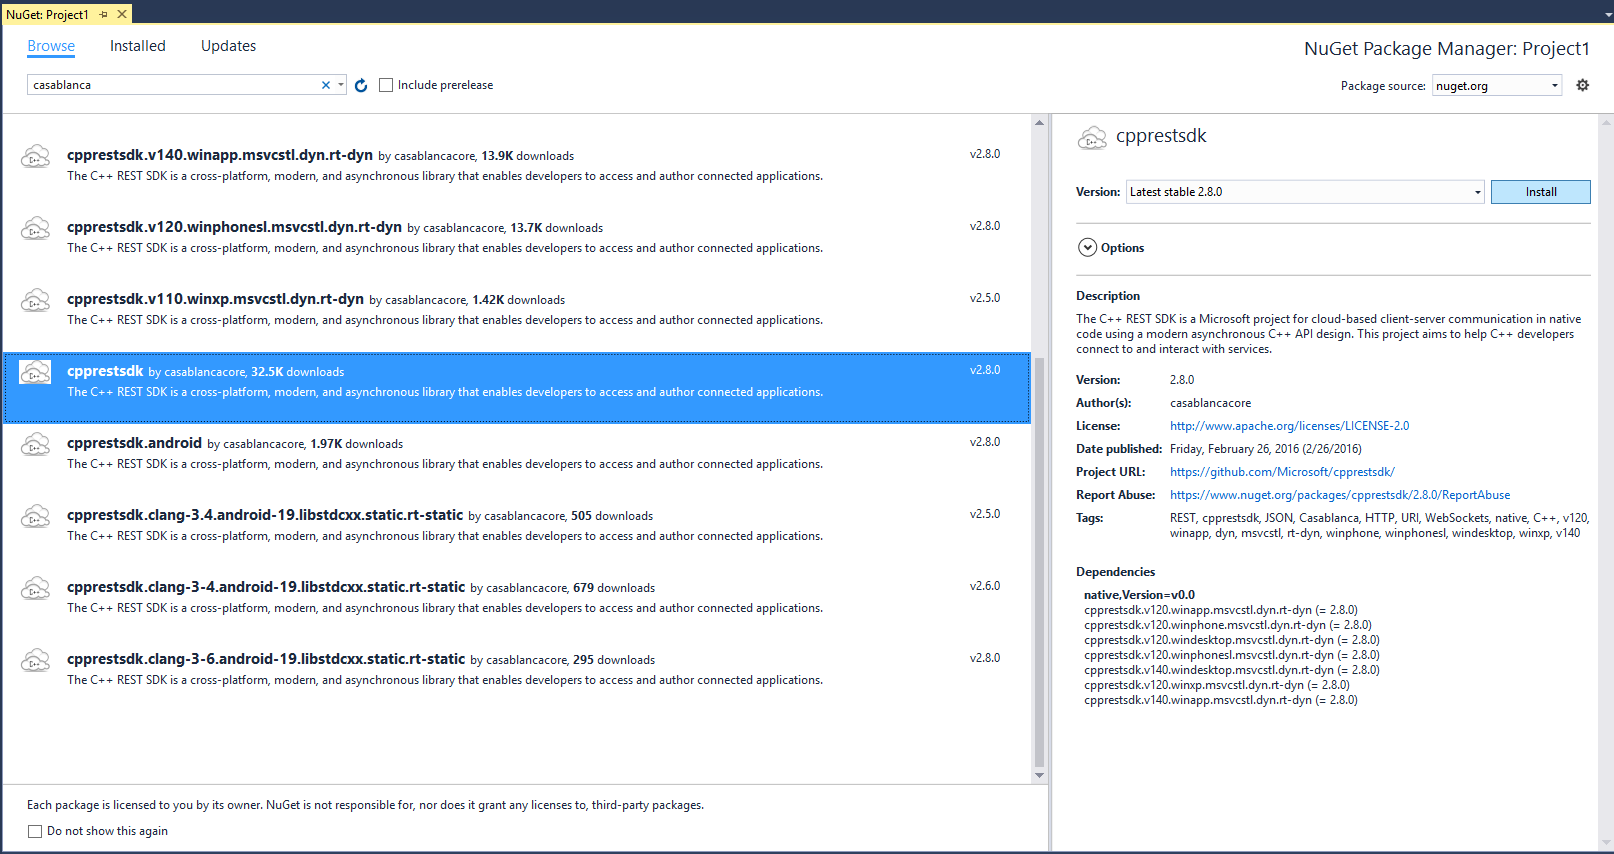
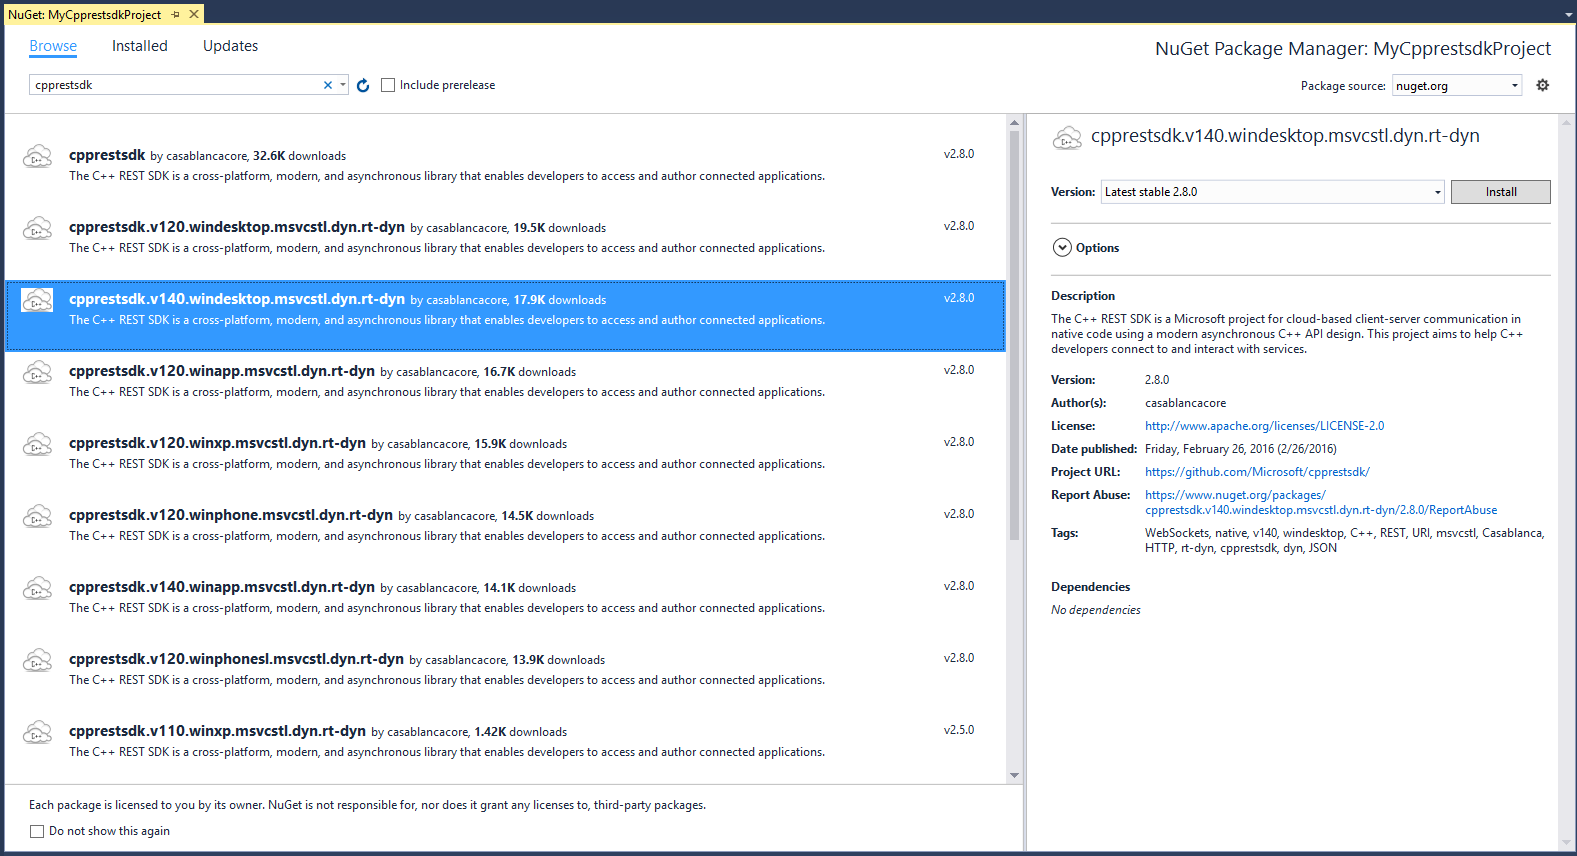
Replace GettingStarted image with one showingf cpprestsdk search and with the desktop package selected

diff --git a/Getting-Started-Tutorial.md b/Getting-Started-Tutorial.md
@@ -4,7 +4,7 @@ This tutorial walks through how to setup up a simple Windows desktop application
 
 ### Getting the C++ Rest SDK NuGet Package
 
-The C++ Rest SDK NuGet package allows you to easily add Casablanca to an application without having to manually deal with setting up includes, libs, dlls, and deployment with Windows store applications. Make sure you have the Visual Studio [NuGet Package Manager installed](How-to-use-the-C---Rest-SDK-NuGet-package), then find the C++ Rest SDK NuGet package by right clicking on your project and selecting "Manage NuGet Packages...". From the dialog search for "Casablanca":  
+The C++ Rest SDK NuGet package allows you to easily add Casablanca to an application without having to manually deal with setting up includes, libs, dlls, and deployment with Windows store applications. Make sure you have the Visual Studio [NuGet Package Manager installed](How-to-use-the-C---Rest-SDK-NuGet-package), then find the C++ Rest SDK NuGet package by right clicking on your project and selecting "Manage NuGet Packages...". From the dialog search for "cpprestsdk":  
 
 ![SearchingCasablancaInNuGet.png](resources/SearchingCasablancaInNuGet.png)
 
